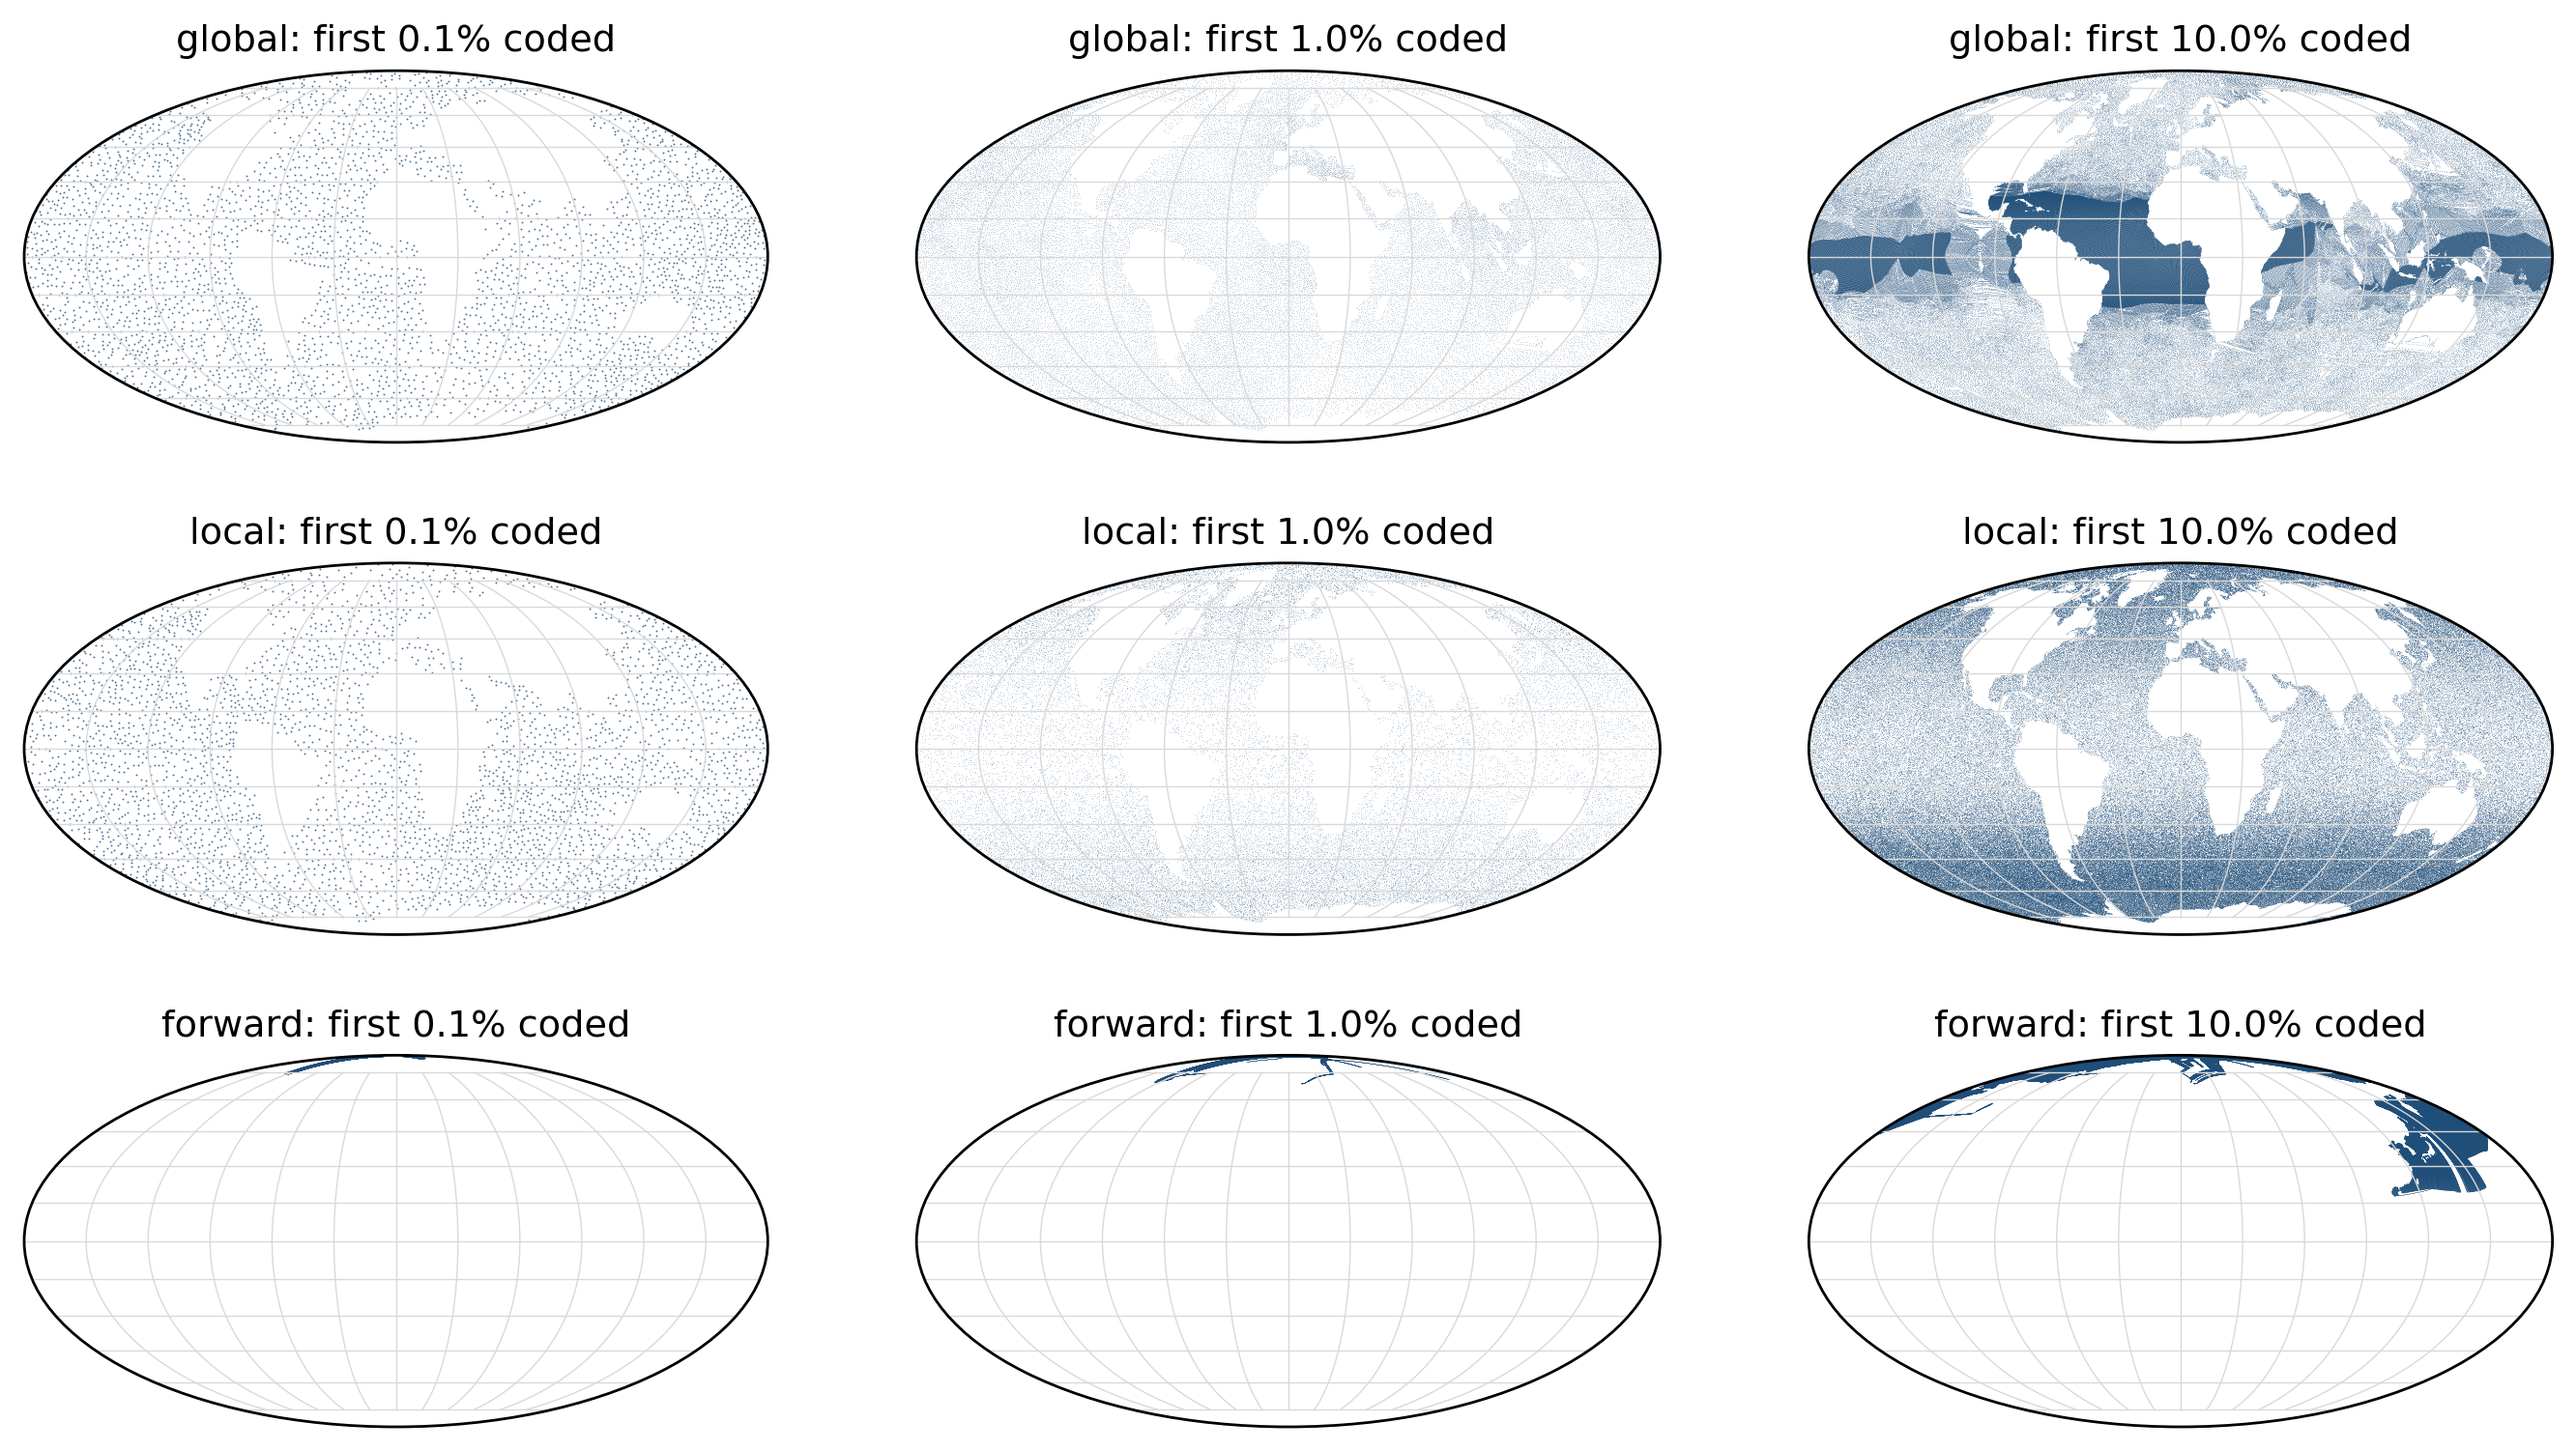
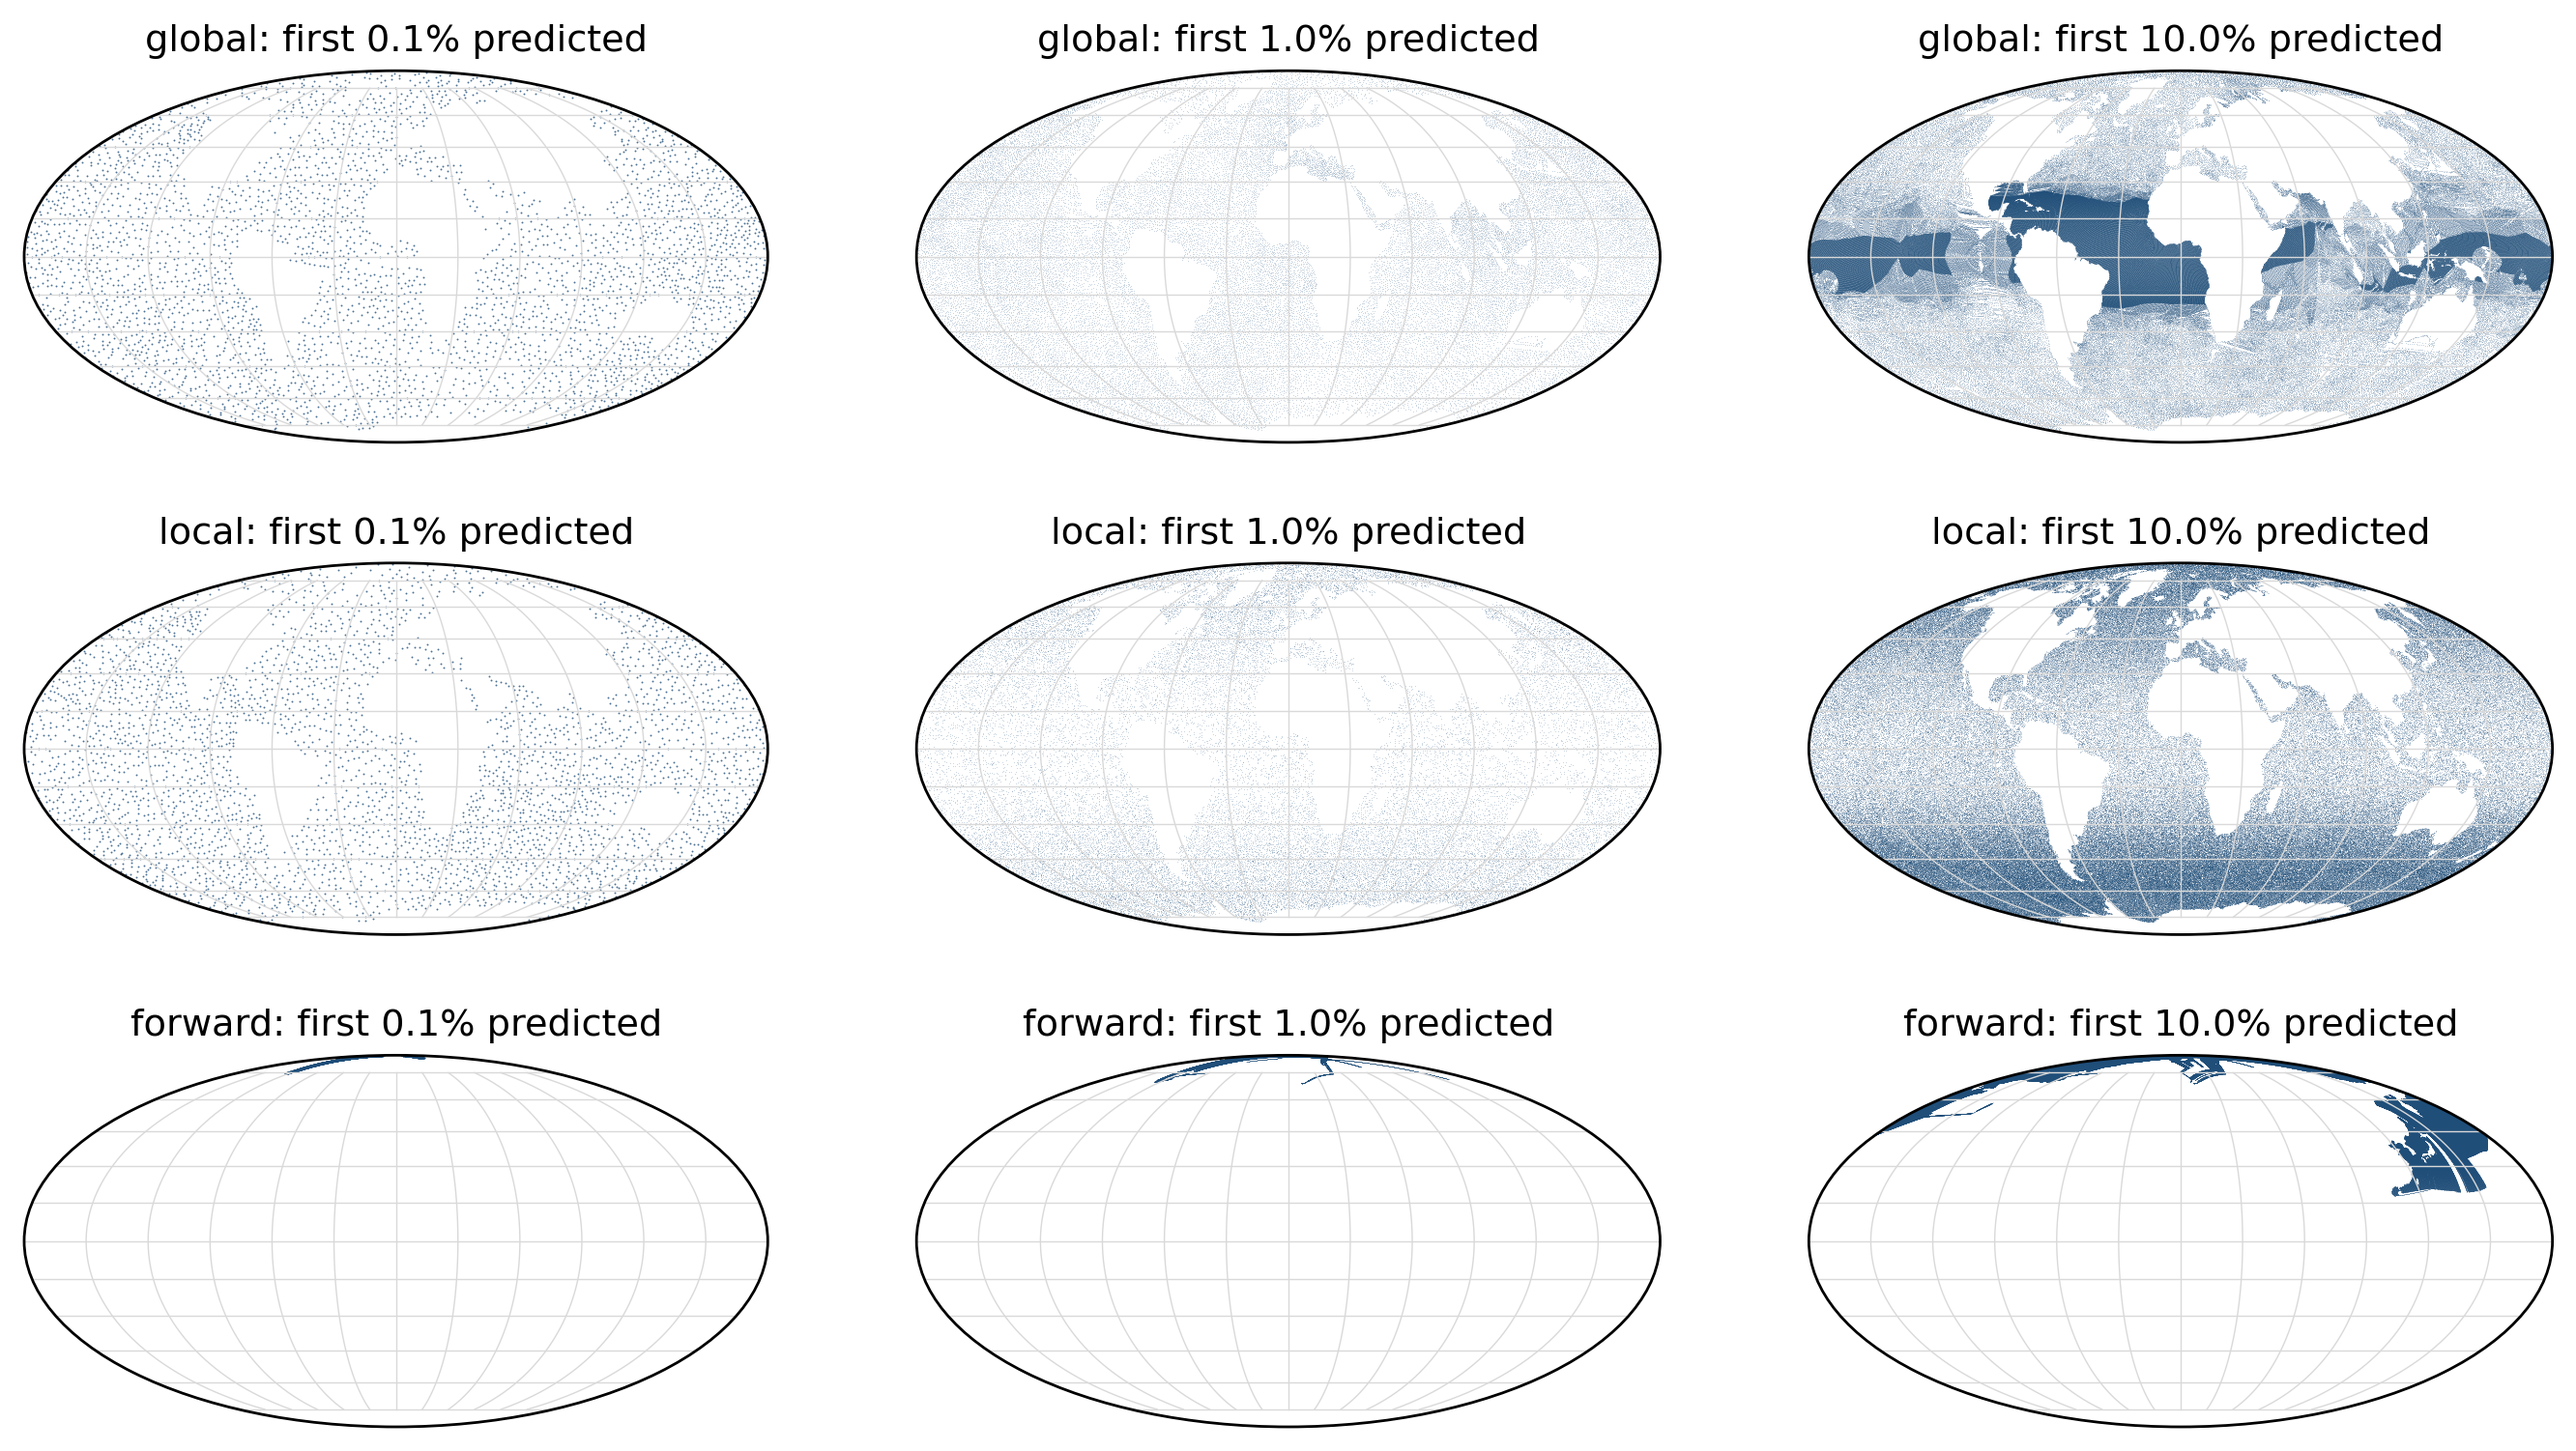
Restructure the introduction and unify paper terminology
Rewrite the abstract and introduction: the introduction now lists the
techniques of UNSZ in the order of Sections IV and V and reports the
results in a separate paragraph. Use coordinates instead of points when
referring to positions, rename the coding order to the prediction
sequence, and use compress instead of code for the compression order.
Regenerate the prediction-sequence figure with the new labels.

diff --git a/benchmarks/ablation/plot_coding_order.py b/benchmarks/ablation/plot_coding_order.py
@@ -90,7 +90,7 @@ def plot_paper_figure(x,y,lon_degree,lat_degree,orders,colormap,path):
     # 论文图：第一行是最先编码的1%的点，第二行是赤道太平洋6°×3°区域内各点的编码位置。布局以pt为单位，宽度为双栏全宽
     sys.path.insert(0,str(project_root/'third_party/paperfig/src'))
     from paperfig import PaperFigureSpec,apply_paper_style,save_paper_png_vertical_crop
-    titles=('Reverse construction','Round-based order','Forward construction')
+    titles=('Reverse construction','Round-based sequence','Forward construction')
     with plt.rc_context():
         apply_paper_style()
         spec=PaperFigureSpec.text()
@@ -121,8 +121,8 @@ def plot_paper_figure(x,y,lon_degree,lat_degree,orders,colormap,path):
             figure.text((side_margin+column*(panel_width+column_gap)+panel_width/2)/width_pt,(height_pt-12-2*panel_height-caption_height-4-2)/height_pt,f'({"def"[column]}) {titles[column]}',ha='center',va='top')
         colorbar_axis=figure.add_axes(((width_pt-180)/2/width_pt,(height_pt-12-2*panel_height-2*caption_height-4-14)/height_pt,180/width_pt,5/height_pt))
         colorbar=figure.colorbar(plt.cm.ScalarMappable(cmap=colormap),cax=colorbar_axis,orientation='horizontal')
-        colorbar.set_ticks([0,1],labels=['coded first','coded last']);colorbar.outline.set_linewidth(.5);colorbar_axis.tick_params(length=1.8,width=.45,pad=1.5)
-        colorbar_axis.set_title('Position in the coding order within panels (d)--(f)'.replace('--','–'),pad=2)
+        colorbar.set_ticks([0,1],labels=['predicted first','predicted last']);colorbar.outline.set_linewidth(.5);colorbar_axis.tick_params(length=1.8,width=.45,pad=1.5)
+        colorbar_axis.set_title('Position in the prediction sequence within panels (d)--(f)'.replace('--','–'),pad=2)
         save_paper_png_vertical_crop(figure,path,spec)
         plt.close(figure)
 
@@ -144,7 +144,7 @@ def main():
         axis.add_patch(matplotlib.patches.Ellipse((0,0),4*np.sqrt(2),2*np.sqrt(2),fill=False,edgecolor='0.3',linewidth=.8,zorder=4))
         axis.set_title(title,fontsize=11)
     colorbar=figure.colorbar(plt.cm.ScalarMappable(cmap=colormap),ax=axes,orientation='horizontal',fraction=.03,pad=.02,aspect=40)
-    colorbar.set_label('Position in coding order (0 = coded first, 1 = coded last)')
+    colorbar.set_label('Position in prediction sequence (0 = predicted first, 1 = predicted last)')
     figure.savefig(output_dir/'coding_order_rank.png',dpi=300,bbox_inches='tight')
     plt.close(figure)
     # 图2：编码顺序中最先编码的0.1%、1%和10%的点
@@ -154,7 +154,7 @@ def main():
             ids=orders[name][:int(point_num*fraction)]
             axis=figure.add_subplot(3,3,row*3+column+1,projection='mollweide')
             axis.scatter(lon[ids],lat[ids],s=.3 if fraction<.01 else .05,color='#1f4e79',alpha=.8 if fraction<.01 else .25,linewidths=0,rasterized=True)
-            style_axis(axis,f'{name}: first {fraction:.1%} coded')
+            style_axis(axis,f'{name}: first {fraction:.1%} predicted')
     figure.savefig(output_dir/'coding_order_first_points.png',dpi=250,bbox_inches='tight')
     plt.close(figure)
     # 图3：赤道太平洋一个5°×5°的小区域，每个点不透明，颜色是它在区域内点中的编码位置
@@ -167,7 +167,7 @@ def main():
         axis.scatter(lon_degree[region],lat_degree[region],c=region_rank,cmap=colormap,vmin=0,vmax=1,s=9,linewidths=0)
         axis.set_aspect('equal');axis.set_title(title,fontsize=10);axis.set_xlabel('longitude');axis.set_ylabel('latitude')
     colorbar=figure.colorbar(plt.cm.ScalarMappable(cmap=colormap),ax=axes,orientation='horizontal',fraction=.05,pad=.18,aspect=50)
-    colorbar.set_label(f'Position in coding order among the {len(region)} points of this region')
+    colorbar.set_label(f'Position in prediction sequence among the {len(region)} points of this region')
     figure.savefig(output_dir/'coding_order_region.png',dpi=200,bbox_inches='tight')
     plt.close(figure)
     # 图4：论文用的组合图
